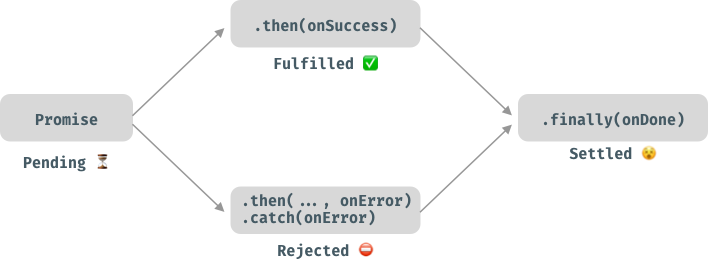
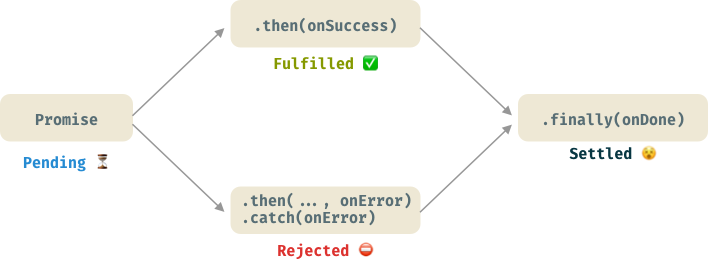
promise post

diff --git a/source/_posts/2019-07-05-promises-tutorial-concurrency-in-javascript-node.md b/source/_posts/2019-07-05-promises-tutorial-concurrency-in-javascript-node.md
@@ -10,31 +10,31 @@ toc: true
 photos:
   - /images/promises-concurrency-in-javascript-small.png
   - /images/promises-concurrency-in-javascript-large.png
-photos__background_color: '#FBE000'
+photos__background_color: '#EEE8D5'
 tags:
   - javascript
   - nodejs
   - tutorial_async-javascript
 categories:
   - Coding
-date: 2019-07-03 19:06:12
-updated: 2019-07-03 19:06:12
+date: 2019-07-08 19:26:12
+updated: 2019-07-08 19:26:12
 ---
 
-This is the ultimate JavaScript Promises tutorial: recipes and examples for everyday situations.
+This post is the ultimate JavaScript Promises tutorial: recipes and examples for everyday situations (or that's the goal 😉). We cover all the necessary methods like `then`, `catch`, and `finally`. Also, we go over more complex situations like executing promises in parallel with `Promise.all`, timing out APIs with `Promise.race`, promise chaining and some best practices and gotchas.
 
 <!-- more -->
 
-_NOTE: I'd like this post to be up-to-date with the most common use cases for promises. If you have a question about promises and is not answered here. Please, make a comment or reach out me directly [@amejiarosario](https://twitter.com/amejiarosario). I'll look into it and update this post._
+_NOTE: I'd like this post to be up-to-date with the most common use cases for promises. If you have a question about promises and is not answered here. Please, comment below or reach out me directly [@amejiarosario](https://twitter.com/amejiarosario). I'll look into it and update this post._
 
 # JavaScript Promises
 
 A promise is an object that allows you to handle asynchronous operations. It's an alternative to plain old callbacks.
 
-Promises make working with async code a breeze because they:
+Promises have many advantages over callbacks. To name a few:
 
-- Makes code easier to read.
-- Provides combined error handling.
+- Make the async code easier to read.
+- Provide combined error handling.
 - Better control flow. You can have async actions execute in parallel or series.
 
 Callbacks tend to form deeply nested structures (a.k.a. Callback hell). Like the following:
@@ -52,7 +52,7 @@ a(() => {
 });
 ```
 
-If you convert those functions to promises, they can be chained producing a more maintainable code. Something like this:
+If you convert those functions to promises, they can be chained producing more maintainable code. Something like this:
 
 ```js
 Promise.resolve()
@@ -63,7 +63,7 @@ Promise.resolve()
   .catch(console.error);
 ```
 
-As you can see in the example above. The promise object exposes the methods `.then` and `.catch`. We are going to explore these methods later.
+As you can see, in the example above, the promise object exposes the methods `.then` and `.catch`. We are going to explore these methods later.
 
 ## How do I convert an existing callback API to promises?
 
@@ -71,16 +71,17 @@ We can convert callbacks into promises using the Promise constructor.
 
 The Promise constructor takes a callback with two arguments `resolve` and `reject`.
 
-- **Resolve**: is a callback that should be invoke when the async operation is completed.
-- **Reject**: is a callback function to be invoke when an error occurs.
+- **Resolve**: is a callback that should be invoked when the async operation is completed.
+- **Reject**: is a callback function to be invoked when an error occurs.
 
 The constructor returns an object immediately, the promise instance. You can get notified when the promise is "done" using the method `.then` in the promise instance. Let's see an example.
 
 ### Wait, aren't promises just callbacks?
 
-Yes and no. Promises are not "just" callbacks but they do use asynchronous callbacks on the `.then` and `.catch` methods. Promises are an abstraction on top of callbacks that allows you to chain multiple async operations and handle errors in a common place. Let's see it in action.
+Yes and no. Promises are not "just" callbacks, but they do use asynchronous callbacks on the `.then` and `.catch` methods. Promises are an abstraction on top of callbacks that allows you to chain multiple async operations and handle errors more elegantly. Let's see it in action.
 
 #### Promises anti-pattern (promise hell)
+Before jumping into how to convert callbacks to promises, let's see how NOT to it.
 
 Please don't convert callbacks to promises from this:
 
@@ -103,7 +104,7 @@ a().then(() => {
   return b().then(() => {
     return c().then(() => {
       return d().then(() =>{
-        // please never ever do to this! ;)
+        // ⚠ Please never ever do to this! ⚠
       });
     });
   });
@@ -112,7 +113,7 @@ a().then(() => {
 
 Always keep your promises as flat as you can.
 
-Like this:
+It's better to do this:
 
 ```js
 a()
@@ -121,11 +122,11 @@ a()
   .then(d)
 ```
 
-Let's do some real life examples! 💪
+Let's do some real-life examples! 💪
 
 ### Promesifying Timeouts
 
-Let's see an example. What do you think will be output of the following program?
+Let's see an example. What do you think will be the output of the following program?
 
 <script defer async src="https://embed.runkit.com" data-element-id="my-element"></script>
 <pre id="my-element">
@@ -164,32 +165,32 @@ It's the latter, because
 > When a promise it's `resolve`d, it can no longer be `reject`ed.
 
 
-Once you call one method (`resolve` or `reject`) the other is invalidated since the promise in a *settled* state. Let's explore all the states of a promise.
+Once you call one method (`resolve` or `reject`) the other is invalidated since the promise in a *settled* state. Let's explore all the different states of a promise.
 
 ## Promise states
 
-There are 4 state in which the promises can be:
+There are four states in which the promises can be:
 
 - ⏳ **Pending**: initial state. Async operation is still in process.
-- ✅ **Fulfilled**: operation was successful. It invokes `.then` callback. E.g., `.then(onSuccess)`.
-- ⛔ **Rejected**: operation failed. It invokes the `.catch` or `.then` second argument (if any). E.g., `.catch(onError)` or `.then(..., onError)`
-- 😵 **Settled**: it's the promise final state. Promise is dead. Nothing else can be resolved or rejected anymore. The `.finally` method is invoked.
+- ✅ **Fulfilled**: the operation was successful. It invokes `.then` callback. E.g., `.then(onSuccess)`.
+- ⛔ **Rejected**: the operation failed. It invokes the `.catch` or `.then` 's second argument (if any). E.g., `.catch(onError)` or `.then(..., onError)`
+- 😵 **Settled**: it's the promise final state. The promise is dead. Nothing else can be resolved or rejected anymore. The `.finally` method is invoked.
 
 ![Promises four states](/images/promises-states.png)
 
 ## Promise instance methods
 
-The Promise API exposes 3 main methods: `then`, `catch` and `finally`. Let's explore each one and provide examples.
+The Promise API exposes three main methods: `then`, `catch` and `finally`. Let's explore each one and provide examples.
 
 ### Promise then
 
-The `then` method allow you to get notify when the asynchronous operation is done, either succeeded or failed. It takes two arguments, one for the successful execution and other one if an error happens.
+The `then` method allows you to get notified when the asynchronous operation is done, either succeeded or failed. It takes two arguments, one for the successful execution and the other one if an error happens.
 
 ```js
 promise.then(onSuccess, onError);
 ```
 
-You can also omit the 2nd argument and use the `.catch` method instead to handle errors.
+You can also omit the 2nd argument and use the `.catch` the method instead to handle errors.
 
 `then` returns a new promise so you can chain multiple promises together. Like in the example below:
 
@@ -200,7 +201,7 @@ Promise.resolve()
   .then(() => console.log('then#3'));
 ```
 
-`Promise.resolve` just immediately resolves the promise as successful. So all the following `then` are called. The output would be
+`Promise.resolve` immediately resolves the promise as successful. So all the following `then` are called. The output would be
 
 ```
 then#1
@@ -212,7 +213,7 @@ Let's see how to handle errors on promises with `then` and `catch`.
 
 ### Promise catch
 
-Promise `.catch` method takes a function as an argument which handles errors if they occur. If everything goes well the catch method is never called.
+Promise `.catch` the method takes a function as an argument which handles errors if they occur. If everything goes well, the catch method is never called.
 
 Let's say we have the following promises, which one resolves or rejects after 1 second and print out their letter.
 
@@ -238,9 +239,9 @@ The output is the following:
 
 ![promise catch](/images/promise-catch.gif)
 
-For this case, you will see `a`, `b` and the error message on `c`. The function `d` will never get executed because the error broke the sequence.
+For this case, you will see `a`, `b` and the error message on `c`. The function` will never get executed because the error broke the sequence.
 
-Also you can handle the error using the 2nd argument of the `then` function. However, be aware that `catch` will not execute anymore.
+Also, you can handle the error using the 2nd argument of the `then` function. However, be aware that `catch` will not execute anymore.
 
 ```js
 Promise.resolve()
@@ -254,7 +255,7 @@ Promise.resolve()
 ![promise then error handling](/images/promise-then-on-error.gif)
 
 As you can see the catch doesn't get called because we are handling the error on the `.then(..., onError)` part.
-`d` is not being called regardless. If you want to completely ignore the error and continue with the execution you can add a `catch` on `c`.
+`d` is not being called regardless. If you want to ignore the error and continue with the execution of the promise chain, you can add a `catch` on `c`. Something like this:
 
 ```js
 Promise.resolve()
@@ -267,12 +268,12 @@ Promise.resolve()
 
 ![promise then error handling](/images/promise-catch-ignored.gif)
 
-Now `d` gets executed!! In all the others cases it didn't.
-This early `catch` is not desired in most cases, it can lead to things failing silently and make your async operations harder to debug.
+Now `d` gets executed!! In all the other cases, it didn't.
+This early `catch` is not desired in most cases, it can lead to things falling silently and make your async operations harder to debug.
 
 ### Promise finally
 
-The finally method is called only when the promise is settled.
+The `finally` method is called only when the promise is settled.
 
 You can use a `.then` after the `.catch`, in case you want a piece of code to execute always, even after a failure.
 
@@ -300,14 +301,14 @@ Promise.resolve()
 
 ## Promise class Methods
 
-There are 4 static methods that you can use directly from the `Promise` object.
+There are four static methods that you can use directly from the `Promise` object.
 
 - Promise.all
 - Promise.reject
 - Promise.resolve
 - Promise.race
 
-Let's see each one an provide and example.
+Let's see each one and provide examples.
 
 ### Promise.resolve and Promise.reject
 
@@ -319,7 +320,7 @@ Promise.resolve('Yay!!!')
   .catch(console.error)
 ```
 
-This will output `Yay!!!` as expected.
+This code will output `Yay!!!` as expected.
 
 ```js
 Promise.reject('Oops 🔥')
@@ -331,11 +332,11 @@ The output will be a console error with the error reason of `Oops 🔥`.
 
 ### Executing promises in Parallel with Promise.all
 
-Usually, promises are executed in series, one after another, but if they are independent from each other.
+Usually, promises are executed in series, one after another, but if they are independent of each other.
 
 Let's say are polling data from 2 different APIs. Since they are not related we can do all at once with `Promise.all()`.
 
-For this example we are going to pull the Bitcoin price in dollar and convert it to EUR. As you imagine both API calls can be call in parallel, however we need a way to know when both are done to calculate the price. We can use `Promise.all` which means that when all promises are done a new promise will be return will the results.
+For this example, we are going to pull the Bitcoin price in USD and convert it to EUR. As you imagine, both API calls can be called in parallel. However, we need a way to know when both are done to calculate the final price. We can use `Promise.all`. When all promises are done, a new promise will be returning will the results.
 
 <script defer async src="https://embed.runkit.com" data-element-id="promise-all"></script>
 <pre id="promise-all">
@@ -359,7 +360,7 @@ Promise.all([bitcoinPromise, dollarPromise])
 </pre>
 
 
-As you can see, `Promise.all` accepts an array of promises. When the request both requests are done then we can proceed to calculate the price.
+As you can see, `Promise.all` accepts an array of promises. When the request both requests are completed, then we can proceed to calculate the price.
 
 Let's do another example and time it:
 
@@ -376,13 +377,13 @@ Promise.all([a(), b(), c(), d()])
   .finally(() => console.timeEnd('promise.all'));
 ```
 
-How long is going to take to solve each of these promise? 5 seconds? 1 second? or 2 seconds?
+How long is it going to take to solve each of these promises? 5 seconds? 1 second? Or 2 seconds?
 
-You can do the experiment on the devTools and report back your results ;)
+You can experiment with the dev tools and report back your results ;)
 
 ### Promise race
 
-The `Promise.race(iterable)` takes a collection promises and resolves as soon as the first promise settles.
+The `Promise.race(iterable)` takes a collection of promises and resolves as soon as the first promise settles.
 
 ```js
 const a = () => new Promise((resolve) => setTimeout(() => resolve('a'), 2000));
@@ -399,11 +400,11 @@ Promise.race([a(), b(), c(), d()])
 
 What's the output?
 
-It's `b`! This is a race and only the fastest gets to be part of the result. 🏁
+It's `b`! With `Promise.race` only the fastest gets to be part of the result. 🏁
 
 You might wonder: _What's the usage of the Promise race?_
 
-To be honest, I haven't use it as often as the others. But, it can come handy in some cases like timing out promises and [batching array of requests](#How-to-limit-parallel-promises).
+I haven't used it as often as the others. But, it can come handy in some cases like timing out promises and [batching array of requests](#How-to-limit-parallel-promises).
 
 #### Timing out requests with Promise race
 
@@ -434,7 +435,7 @@ Promise.race([
 
 ## Promises FAQ
 
-This are tricks and tips using all the elements that we explained before.
+This section covers tricks and tips using all the promises methods that we explained before.
 
 ### Executing promises in series and passing arguments
 
@@ -451,11 +452,11 @@ fs.readFile('file.txt', 'utf8')
 ```
 
 On this example, we read file 1 and write it to the output file. Later, we read file 2 and append it to the output file again.
-As you can see, `writeFile` promise returns the content of the file and you can use it in the next `then` clause.
+As you can see, `writeFile` promise returns the content of the file, and you can use it in the next `then` clause.
 
 ### How do I chain multiple conditional promises?
 
-You might have a case where you want to skip certain steps on a promise chain. You can do that in two ways.
+You might have a case where you want to skip specific steps on a promise chain. You can do that in two ways.
 
 <script defer async src="https://embed.runkit.com" data-element-id="ex1"></script>
 <pre id="ex1">
@@ -477,7 +478,7 @@ Promise.resolve()
   .then(() => console.log('done'))
 </pre>
 
-If you run the code example you will notice that only `a` and `d` are executed as expected.
+If you run the code example, you will notice that only `a` and `d` are executed as expected.
 
 An alternative way is creating a chain and then only add them if
 ```js
@@ -493,10 +494,10 @@ chain
 
 ### How to limit parallel promises?
 
-To accomplish this we have to throttle `Promise.all` somehow.
+To accomplish this, we have to throttle `Promise.all` somehow.
 
-Let's say you have many concurrent requests to do. If you do a `Promise.all` that won't be good. Specially when the API is rate limited.
-So, we need to develop and function that does that for use. Let's call it `promiseAllThrottled`.
+Let's say you have many concurrent requests to do. If you do a `Promise.all` that won't be good (especially when the API is rate limited).
+So, we need to develop and function that does that for us. Let's call it `promiseAllThrottled`.
 
 ```js
 // simulate 10 async tasks that takes 5 seconds to complete.
@@ -509,7 +510,7 @@ promiseAllThrottled(requests, { concurrency: 3 })
   .catch(error => console.error('Oops something went wrong', error));
 ```
 
-The output is something like this:
+The output should be something like this:
 
 ![promise throttle](/images/promise-throttle.gif)
 
@@ -551,5 +552,5 @@ function promiseAllThrottled(iterable, { concurrency = 3 } = {}) {
 }
 ```
 
-The `promiseAllThrottled` takes promises one by one. It execute the promises and add it to the queue. If the queue is less than the concurrency limit it keeps adding to the queue. Once the limit is reached then we use `Promise.race` to wait for one promise to finish so we can replace it with a new one.
-The trick here, is that the promise remove itself from the queue when is done.
+The `promiseAllThrottled` takes promises one by one. It executes the promises and adds it to the queue. If the queue is less than the concurrency limit, it keeps adding to the line. Once the limit is reached, then we use `Promise.race` to wait for one promise to finish so we can replace it with a new one.
+The trick here is that the promise removes itself from the queue when it is done.

diff --git a/cheatsheet.md b/cheatsheet.md
@@ -7,7 +7,7 @@ hexo s -dp 5000            # server on port 5000
 hexo s --draft -dp 5000    # serve drafts on port 5000
 
 # update GA stats
-cd tasks && node google-analytics-runner.js && cd -
+cd tasks && node google-analytics-runner.js && cd - && git add . && git commit -am 'update ga stats' && ggpush
 
 # change index in
 # _config.yml

diff --git a/source/_posts/2019-06-28-asynchronous-vs-synchronous-handling-concurrency-in-javascript.md b/source/_posts/2019-06-28-asynchronous-vs-synchronous-handling-concurrency-in-javascript.md
@@ -236,7 +236,7 @@ Now that you are (hopefully) convinced why writing non-blocking code is necessar
 In JavaScript, we can handle asynchronous code using:
 
 - [Callbacks](/callbacks-concurrency-in-javascript-node)
-- Promises
+- [Promises](/promises-tutorial-concurrency-in-javascript-node)
 - Async/Await functions
 - Generators
 
